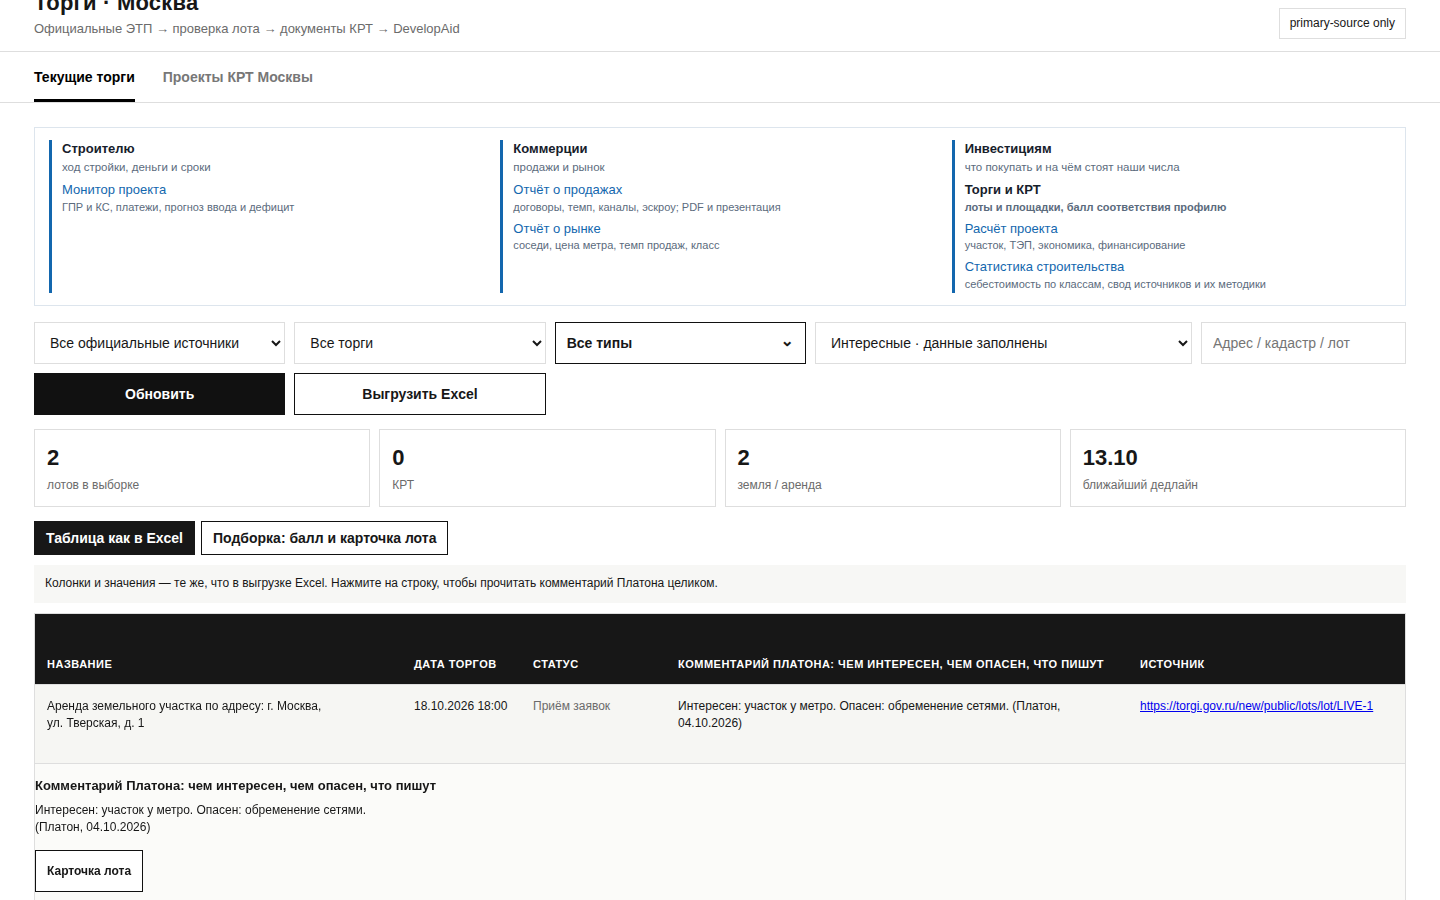
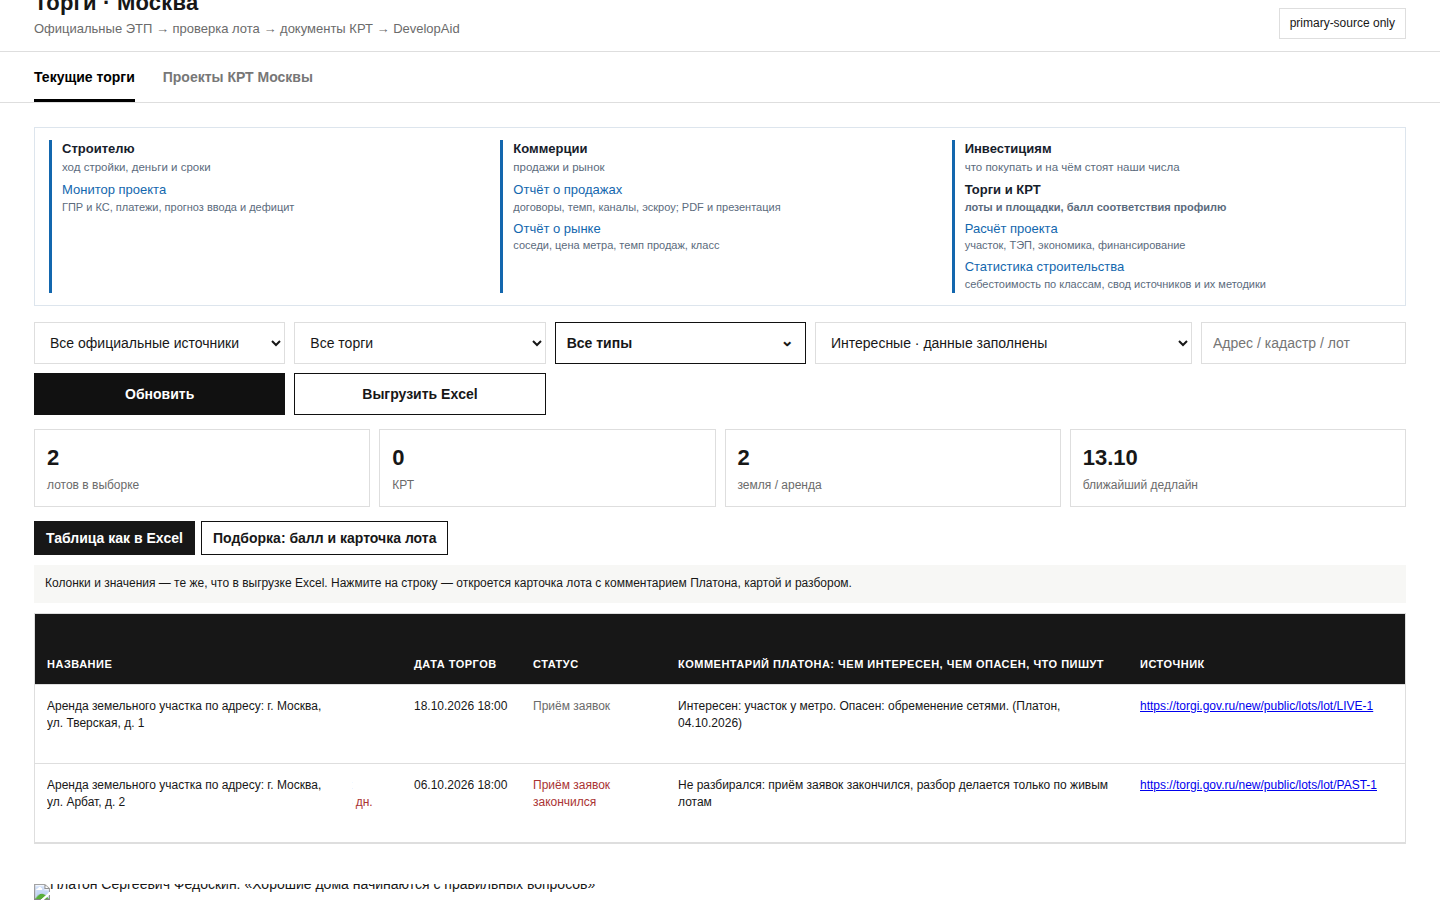
Торги: карточка лота — окном поверх таблицы, как у КРТ
Строка таблицы «как в Excel» открывает окно с той же карточкой, что в
подборке: узел #side переезжает в окно и возвращается на место, второй
копии карточки нет. Первым блоком — комментарий Платона из той же
клетки, что в таблице и книге; кнопка заказа разбора — только не у
ключа просмотра и только у живого лота. Выделена строка открытой
карточки. Закрытие: ×, Esc, клик мимо, «Назад» на телефоне.

Просроченный лот без комментария называет настоящую причину: очередь
разбора берёт только живые лоты (книга и страница одинаково).

Claude-Session: https://claude.ai/code/session_014tyG5q2AfFEu8cFzxgMgVg

diff --git a/auction_search/ui.py b/auction_search/ui.py
@@ -34,8 +34,10 @@ AUCTIONS_PAGE = r'''<!doctype html>
 .viewswitch{display:flex;flex-wrap:wrap;gap:6px;margin-bottom:10px}.viewswitch button{min-height:34px}.viewswitch button.active{background:var(--ink,#171717);color:#fff;border-color:var(--ink,#171717)}
 .sheetwrap{min-height:200px;max-width:100%;max-height:78vh}table.sheet{min-width:0;table-layout:fixed;font-size:12px}table.sheet th{position:sticky;top:0;z-index:2;background:#171717;color:#fff;cursor:pointer;vertical-align:bottom;white-space:normal}table.sheet td{white-space:normal;overflow-wrap:anywhere}
 @media(min-width:641px){table.sheet td.k-name{position:sticky;left:0;z-index:1;background:var(--panel,#fff);border-right:1px solid var(--line)}table.sheet th.k-name{left:0;z-index:3}}table.sheet th .arrow{opacity:.7}table.sheet td{vertical-align:top}
-table.sheet td .clip{display:-webkit-box;-webkit-line-clamp:3;-webkit-box-orient:vertical;overflow:hidden}table.sheet td.days.past,table.sheet td.status.past{color:#a33}table.sheet tr.sheetrow{cursor:pointer}table.sheet tr.sheetrow.open td{background:#f6f6f3}
-table.sheet tr.sheetmore td{background:#fbfbf9;white-space:normal}.sheetmore .morebox{position:sticky;left:0;max-width:min(860px,calc(100vw - 48px));white-space:pre-wrap}.sheetmore h4{margin:0 0 6px;font-size:13px}.sheetmore .fullname{margin-bottom:10px}.sheetmore .muted{color:var(--muted)}
+table.sheet td .clip{display:-webkit-box;-webkit-line-clamp:3;-webkit-box-orient:vertical;overflow:hidden}table.sheet td.days.past,table.sheet td.status.past{color:#a33}table.sheet tr.sheetrow{cursor:pointer}
+table.sheet tr.sheetrow.sel td{background:#f6f6f3}
+.krt-proto-shell.lot-shell{width:min(980px,calc(100vw - 44px));overflow:auto}.lot-modal-body{padding:22px 26px}.lot-modal-body .side{border:0;overflow:visible;padding:0}.lot-modal-body .lotnote{margin-bottom:14px;padding-bottom:12px;border-bottom:1px solid var(--line)}.lot-modal-body .lotnote .muted{color:var(--muted)}.lot-modal-body .lotnote div{white-space:pre-wrap}
+@media(max-width:700px){.krt-proto-shell.lot-shell{width:100vw}.lot-modal-body{padding:52px 14px 18px}}
 .sheet .cmhint{display:none;color:var(--muted);font-size:11px;margin-top:4px}
 @media(max-width:640px){table.sheet th.k-plato_comment,table.sheet td.k-plato_comment{display:none}.sheet .cmhint{display:block}}
 #krtSide{display:none!important}
@@ -154,6 +156,7 @@ __DEVELOPAID_CONTOUR__
 <th data-sort="total">Всего</th>
 <th data-sort="housing">Жильё</th></tr></thead><tbody id="krtRows"></tbody></table><div id="krtEmpty" class="empty">Открываю официальный каталог krt.mos.ru…</div></div></div><aside class="side" id="krtSide"><div class="empty">Выберите проект КРТ.<br>ТЭП берутся из каталога krt.mos.ru и проектов решений на mos.ru, рынок считает существующий движок DevelopAid.</div></aside></div>
   </div>
+  <div id="lotModal" class="krt-proto-modal hidden" role="dialog" aria-modal="true" aria-label="Карточка лота"><div class="krt-proto-shell lot-shell" id="lotModalShell"><button type="button" class="krt-proto-close" id="lotModalClose" aria-label="Закрыть">×</button><div class="lot-modal-body"><div id="lotModalNote"></div><div id="lotModalSlot"></div></div></div></div>
   <div id="krtPrototypeModal" class="krt-proto-modal hidden" role="dialog" aria-modal="true" aria-label="Инвестиционный разбор КРТ">
    <div class="krt-proto-shell">
     <button type="button" class="krt-proto-close" id="krtPrototypeClose" aria-label="Закрыть">×</button>
@@ -184,7 +187,7 @@ __DEVELOPAID_CONTOUR__
   <div id="foldNote" class="notice" style="display:none"></div>
   <div class="viewswitch" id="auctionViewSwitch" role="tablist"><button type="button" id="viewSheet" class="active" role="tab">Таблица как в Excel</button><button type="button" id="viewPick" role="tab">Подборка: балл и карточка лота</button></div>
   <div class="sheetview" id="auctionSheet">
-    <div class="notice" id="sheetNote">Колонки и значения — те же, что в выгрузке Excel. Нажмите на строку, чтобы прочитать комментарий Платона целиком.</div>
+    <div class="notice" id="sheetNote">Колонки и значения — те же, что в выгрузке Excel. Нажмите на строку — откроется карточка лота с комментарием Платона, картой и разбором.</div>
     <div class="tablewrap sheetwrap" id="sheetWrap"><table class="sheet" id="sheetTable"><thead id="sheetHead"></thead><tbody id="sheetRows"></tbody></table><div id="sheetEmpty" class="empty">Нажмите «Обновить», чтобы получить текущую выборку с официальных площадок.</div></div>
   </div>
   <div class="layout hidden" id="auctionLayout">
@@ -613,7 +616,7 @@ function exportPayload(rows,kind){return rows.map(r=>{const rank=kind==='krt'?kr
 // тем же кодом, что книгу: список колонок здесь не повторяется, иначе колонка,
 // добавленная в книгу, опять не доехала бы до экрана. Комментарий Платона —
 // из фонового разбора; модель запросом страницы не зовётся.
-state.auctionView='sheet';state.sheet={columns:[],rows:[],seq:0,open:new Set(),sort:null,mayRequest:false};
+state.auctionView='sheet';state.sheet={columns:[],rows:[],seq:0,openUrl:null,sort:null,mayRequest:false};
 function applyAuctionView(){const krt=!!state.krtTab,sheet=state.auctionView==='sheet';
  $('auctionSheet').classList.toggle('hidden',krt||!sheet);$('auctionLayout').classList.toggle('hidden',krt||sheet);
  $('viewSheet').classList.toggle('active',sheet);$('viewPick').classList.toggle('active',!sheet)}
@@ -645,22 +648,37 @@ function renderSheet(){const cols=state.sheet.columns||[],head=$('sheetHead'),bo
  body.innerHTML='';
  const rows=sheetSorted();empty.style.display=rows.length?'none':'grid';
  if(!rows.length)empty.textContent=(state.lots||[]).length?'В текущей выборке нет строк.':'Нажмите «Обновить», чтобы получить текущую выборку с официальных площадок.';
- rows.forEach(r=>{const tr=document.createElement('tr'),open=state.sheet.open.has(r.url);tr.className='sheetrow'+(open?' open':'');
+ rows.forEach(r=>{const tr=document.createElement('tr'),sel=state.sheet.openUrl===r.url;tr.className='sheetrow'+(sel?' sel':'');
   const days=r.cells.days_to_deadline||{},past=typeof days.value==='number'&&days.value<0;
   tr.innerHTML=cols.map(c=>{const cell=r.cells[c.key]||{text:'—'},cls=['k-'+c.key,c.kind==='days'?'days':'',c.key==='status'?'status':'',past&&(c.kind==='days'||c.key==='status')?'past':''].filter(Boolean).join(' ');
-   return `<td class="${cls}">${sheetCellHtml(c,cell)}${c.key==='name'?`<div class="cmhint">${open?'▾':'▸'} Комментарий Платона</div>`:''}</td>`}).join('');
-  tr.onclick=()=>{if(state.sheet.open.has(r.url))state.sheet.open.delete(r.url);else state.sheet.open.add(r.url);renderSheet()};
+   return `<td class="${cls}">${sheetCellHtml(c,cell)}${c.key==='name'?'<div class="cmhint">▸ Карточка и комментарий Платона</div>':''}</td>`}).join('');
+  tr.onclick=()=>openLotModal(r);
   body.appendChild(tr);
-  if(open){const more=document.createElement('tr');more.className='sheetmore';const cm=r.cells.plato_comment||{text:'—'};
-   const title=(cols.find(c=>c.key==='plato_comment')||{}).title||'';
-   const nameCol=cols.find(c=>c.key==='name'),nm=r.cells.name||{};
-   more.innerHTML=`<td colspan="${cols.length||1}"><div class="morebox">${nameCol?`<h4>${esc(nameCol.title)}</h4><div class="fullname">${esc(nm.text||'—')}</div>`:''}<h4>${esc(title)}</h4><div class="${cm.ready?'':'muted'}">${esc(cm.text||'—')}</div>${(!cm.ready&&state.sheet.mayRequest)?'<div class="actions"><button type="button" class="askNote">Заказать комментарий Платона</button></div>':''}${r.lot?'<div class="actions"><button type="button" class="openCard">Карточка лота</button></div>':''}</div></td>`;
-   const ask=more.querySelector('.askNote');if(ask)ask.onclick=e=>{e.stopPropagation();requestSheetNote(r,ask)};
-   const card=more.querySelector('.openCard');if(card)card.onclick=e=>{e.stopPropagation();setAuctionView('pick');selectLot(r.lot)};
-   body.appendChild(more)}
  })}
+// Карточка лота — окном поверх таблицы, как у КРТ. В окне та же карточка,
+// что в подборке (`selectLot` рисует в #side): узел переезжает в окно и
+// возвращается на место, второй копии карточки нет. Первым блоком —
+// комментарий Платона из той же клетки, что в таблице и книге.
+function lotModalNoteHtml(r){const cols=state.sheet.columns||[],cm=r.cells.plato_comment||{text:'—'},days=(r.cells.days_to_deadline||{}).value,live=!(typeof days==='number'&&days<0);
+ const title=k=>(cols.find(c=>c.key===k)||{}).title||'';
+ return `<div class="section lotnote"><h3>${esc(title('plato_comment'))}</h3><div class="${cm.ready?'':'muted'}">${esc(cm.text||'—')}</div>${(!cm.ready&&live&&state.sheet.mayRequest)?'<div class="actions"><button type="button" class="askNote">Заказать комментарий Платона</button></div>':''}</div>`}
+function renderLotModalNote(){const r=(state.sheet.rows||[]).find(x=>x.url===state.sheet.openUrl),box=$('lotModalNote');if(!r||!box)return;
+ box.innerHTML=lotModalNoteHtml(r);const ask=box.querySelector('.askNote');if(ask)ask.onclick=()=>requestSheetNote(r,ask)}
+function openLotModal(r){if(!r||!r.lot)return;const side=$('side'),modal=$('lotModal');
+ if(!state.lotSideHome){state.lotSideHome=document.createComment('side');side.parentNode.insertBefore(state.lotSideHome,side)}
+ $('lotModalSlot').appendChild(side);
+ state.sheet.openUrl=r.url;renderLotModalNote();selectLot(r.lot);
+ modal.classList.remove('hidden');document.body.classList.add('krt-modal-open');$('lotModalShell').scrollTop=0;
+ // «Назад» на телефоне закрывает окно, а не уходит со страницы.
+ if(!state.lotModalPushed){try{history.pushState({lotModal:1},'');state.lotModalPushed=true}catch(_){}}
+ renderSheet()}
+function closeLotModal(fromHistory){const modal=$('lotModal');if(!modal||modal.classList.contains('hidden'))return;
+ modal.classList.add('hidden');document.body.classList.remove('krt-modal-open');
+ if(state.lotSideHome){state.lotSideHome.parentNode.insertBefore($('side'),state.lotSideHome)}
+ state.sheet.openUrl=null;renderSheet();
+ if(state.lotModalPushed){state.lotModalPushed=false;if(!fromHistory)try{history.back()}catch(_){}}}
 async function requestSheetNote(r,btn){btn.disabled=true;btn.innerHTML='<span class="spinner"></span>Ставлю в очередь';
- try{await askJson('/auctions/lot-notes/request',{method:'POST',headers:{'Content-Type':'application/json'},body:JSON.stringify({rows:exportPayload([r.lot],'auctions'),kind:'auctions'})});await loadSheet()}
+ try{await askJson('/auctions/lot-notes/request',{method:'POST',headers:{'Content-Type':'application/json'},body:JSON.stringify({rows:exportPayload([r.lot],'auctions'),kind:'auctions'})});await loadSheet();renderLotModalNote()}
  catch(e){btn.disabled=false;btn.textContent='Не поставлено: '+String(e.message||e)}}
 async function exportRows(rows,kind){if(!rows.length){alert('В текущей выборке нет строк для выгрузки.');return}const payload=exportPayload(rows,kind);const res=await fetch('/auctions/export.xlsx',{method:'POST',headers:{'Content-Type':'application/json'},body:JSON.stringify({rows:payload,kind})});if(!res.ok){let why='';try{why=(await res.json()).detail||''}catch(_){}throw new Error('Не удалось подготовить Excel ('+res.status+(why?': '+why:'')+')')}const blob=await res.blob(),a=document.createElement('a');a.href=URL.createObjectURL(blob);a.download=kind==='krt'?'developaid-krt.xlsx':'developaid-auctions.xlsx';a.click();URL.revokeObjectURL(a.href)}
 function coverageLine(r){
@@ -4507,7 +4525,7 @@ platoBlock('#krtPanel', AUCTION_SURFACE, 'о площадках КРТ');
 
 
 $('krtPrototypeClose').onclick=closeKrtPrototype;
-$('krtPrototypeModal').onclick=e=>{if(e.target===$('krtPrototypeModal'))closeKrtPrototype()};
+$('krtPrototypeModal').onclick=e=>{if(e.target===$('krtPrototypeModal'))closeKrtPrototype()};$('lotModal').onclick=e=>{if(e.target===$('lotModal'))closeLotModal()};$('lotModalClose').onclick=()=>closeLotModal();window.addEventListener('popstate',()=>closeLotModal(true));
 window.addEventListener('message',e=>{
  if(e.origin!==location.origin)return;
  const d=e.data||{};
@@ -4525,7 +4543,7 @@ window.addEventListener('message',e=>{
  if(d.action==='handoff'){handoffKrt(x);return}
  if(d.action==='plato'){renderAskContext();platoOpen(AUCTION_SURFACE);return}
 });
-document.addEventListener('keydown',e=>{if(e.key==='Escape'&&!$('krtPrototypeModal').classList.contains('hidden'))closeKrtPrototype()});
+document.addEventListener('keydown',e=>{if(e.key==='Escape'&&!$('krtPrototypeModal').classList.contains('hidden'))closeKrtPrototype()});document.addEventListener('keydown',e=>{if(e.key==='Escape')closeLotModal()});
 $('tabAuctions').onclick=()=>switchTab(false);$('tabKrt').onclick=()=>switchTab(true);$('krtRefresh').onclick=()=>loadKrt(true);$('krtRankBtn').onclick=startKrtRanking;$('krtRatingBtn').onclick=startKrtInvestmentRating;$('krtPressBtn').onclick=readKrtPress;$('krtSearch').oninput=filterKrt;bindKrtFilters();document.getElementById('krtMapFold')?.addEventListener('toggle',ev=>{if(ev.target.open)loadKrtMap()});$('krtMinHousing').oninput=filterKrt;$('krtMinPrice').oninput=filterKrt;document.querySelectorAll('th[data-sort]').forEach(th=>{th.style.cursor='pointer';th.title=(th.title?th.title+'. ':'')+'Нажмите, чтобы отсортировать';th.onclick=()=>krtSortBy(th.dataset.sort)});
 $('krtOkrugToggle').onclick=e=>{e.stopPropagation();const menu=$('krtOkrugMenu'),open=menu.classList.contains('hidden');closeKrtMenus();menu.classList.toggle('hidden',!open);$('krtOkrugToggle').setAttribute('aria-expanded',String(open))};$('krtOkrugMenu').onclick=e=>e.stopPropagation();$('krtOkrugClear').onclick=()=>{state.krtOkrugs.clear();$('krtOkrugOptions').querySelectorAll('input').forEach(x=>x.checked=false);updateKrtOkrugLabel();filterKrt()};document.addEventListener('click',closeKrtMenus);document.addEventListener('keydown',e=>{if(e.key==='Escape'){closeKrtMenus();$('krtOkrugToggle').focus()}});
 loadKrtRanking();

diff --git a/tests/test_the_auction_page_shows_the_book_columns.py b/tests/test_the_auction_page_shows_the_book_columns.py
@@ -138,7 +138,7 @@ def test_the_book_and_the_table_route_read_one_column_list(tmp_path, monkeypatch
     assert NOTE_TEXT in live["cells"]["plato_comment"]["text"]
     assert live["cells"]["plato_comment"]["ready"] is True
     # Неразобранный лот — причина, а не пустота.
-    assert past["cells"]["plato_comment"]["text"].startswith("Не разбирался")
+    assert past["cells"]["plato_comment"]["text"].startswith("Не разбирался: приём заявок закончился")
     assert live["cells"]["days_to_deadline"]["value"] == 9
     assert past["cells"]["days_to_deadline"]["text"].startswith("Приём заявок закончился")
     assert past["cells"]["status"]["text"] == "Приём заявок закончился"
@@ -187,6 +187,20 @@ def test_in_a_real_browser_the_page_has_the_book_columns(tmp_path, monkeypatch):
                 check_page_against_book(page.evaluate(READ))
             assert not errors, errors
 
+            # Десктоп: окно карточки открывается строкой, закрывается Esc,
+            # выделенная строка — та, чья карточка открыта.
+            page.click("#sheetRows tr.sheetrow >> nth=1")
+            assert page.is_visible("#lotModal")
+            assert page.evaluate("state.selected.source.lot_url") == PAST_URL
+            assert page.evaluate("document.querySelector('#sheetRows tr.sel td.k-url').textContent") == PAST_URL
+            assert "приём заявок закончился" in page.inner_text("#lotModalNote")
+            # Просроченный лот очередь не берёт — и кнопки заказа у него нет.
+            assert page.locator("#lotModalNote .askNote").count() == 0
+            page.screenshot(path=str(shots / "auctions-desktop-card.png"))
+            page.keyboard.press("Escape")
+            page.wait_for_function("document.getElementById('lotModal').classList.contains('hidden')")
+            assert page.evaluate("!!document.querySelector('#auctionLayout #side')")
+
             # Телефон: таблица не ломает ширину, комментарий — раскрытием строки.
             phone = browser.new_page(viewport={"width": 390, "height": 844}, is_mobile=True)
             phone.on("pageerror", lambda exc: errors.append(str(exc)))
@@ -195,17 +209,26 @@ def test_in_a_real_browser_the_page_has_the_book_columns(tmp_path, monkeypatch):
             assert width[0] <= width[1], f"страница шире экрана: {width}"
             assert not phone.is_visible("#sheetRows td.k-plato_comment")
             phone.screenshot(path=str(shots / "auctions-phone.png"))
+            # Строка открывает карточку лота окном, как у КРТ.
             phone.click("#sheetRows tr.sheetrow >> nth=0")
-            more = phone.locator("#sheetRows tr.sheetmore .morebox")
-            assert NOTE_TEXT in more.inner_text()
-            # Название в строке обрезано до трёх строк; целиком — при раскрытии.
-            assert LOTS[0]["title"] in more.inner_text()
-            box = more.bounding_box()
+            modal = phone.locator("#lotModal")
+            assert modal.is_visible()
+            text = modal.inner_text()
+            assert NOTE_TEXT in text, "в окне нет комментария Платона"
+            # Название в строке обрезано до трёх строк; целиком — в окне.
+            assert LOTS[0]["title"] in text
+            # В окне — та же карточка подборки (#side), а не вторая копия.
+            assert phone.evaluate("!!document.querySelector('#lotModal #side .actions')")
+            box = phone.locator("#lotModalShell").bounding_box()
             assert box and box["x"] >= 0 and box["x"] + box["width"] <= 390, box
             width = phone.evaluate("[document.documentElement.scrollWidth, innerWidth]")
-            assert width[0] <= width[1], f"раскрытая строка расширила страницу: {width}"
-            more.scroll_into_view_if_needed()
+            assert width[0] <= width[1], f"окно расширило страницу: {width}"
             phone.screenshot(path=str(shots / "auctions-phone-open.png"))
+            # «Назад» закрывает окно и возвращает карточку на её место.
+            phone.go_back()
+            phone.wait_for_function("document.getElementById('lotModal').classList.contains('hidden')")
+            assert phone.evaluate("!!document.querySelector('#auctionLayout #side')")
+            assert phone.url.endswith("/auctions"), phone.url
             assert not errors, errors
         finally:
             browser.close()

diff --git a/auction_search/api.py b/auction_search/api.py
@@ -380,9 +380,16 @@ def _export_row(source_row: dict[str, Any], keys: tuple[str, ...],
     if context is not None:
         if "plato_comment" in keys:
             key = str(row.get("url") or "").strip()
-            row["plato_comment"] = lot_notes_rules.comment_for_book(
-                context.notes.get(key), place=context.queue_place.get(key),
-                interval_seconds=context.interval, again=again)
+            days = row.get("days_to_deadline")
+            if not context.notes.get(key) and isinstance(days, int) and days < 0:
+                # Очередь разбора берёт только живые лоты (`LotNotes.queue`):
+                # «не поставлен в очередь» здесь было бы неправдой о причине.
+                row["plato_comment"] = ("Не разбирался: приём заявок закончился, "
+                                        "разбор делается только по живым лотам")
+            else:
+                row["plato_comment"] = lot_notes_rules.comment_for_book(
+                    context.notes.get(key), place=context.queue_place.get(key),
+                    interval_seconds=context.interval, again=again)
         if "nspd_map" in keys:
             row["nspd_map"], nspd_href = lot_notes_rules.nspd_cell(
                 lot_notes_rules.row_numbers(row), context.points,
